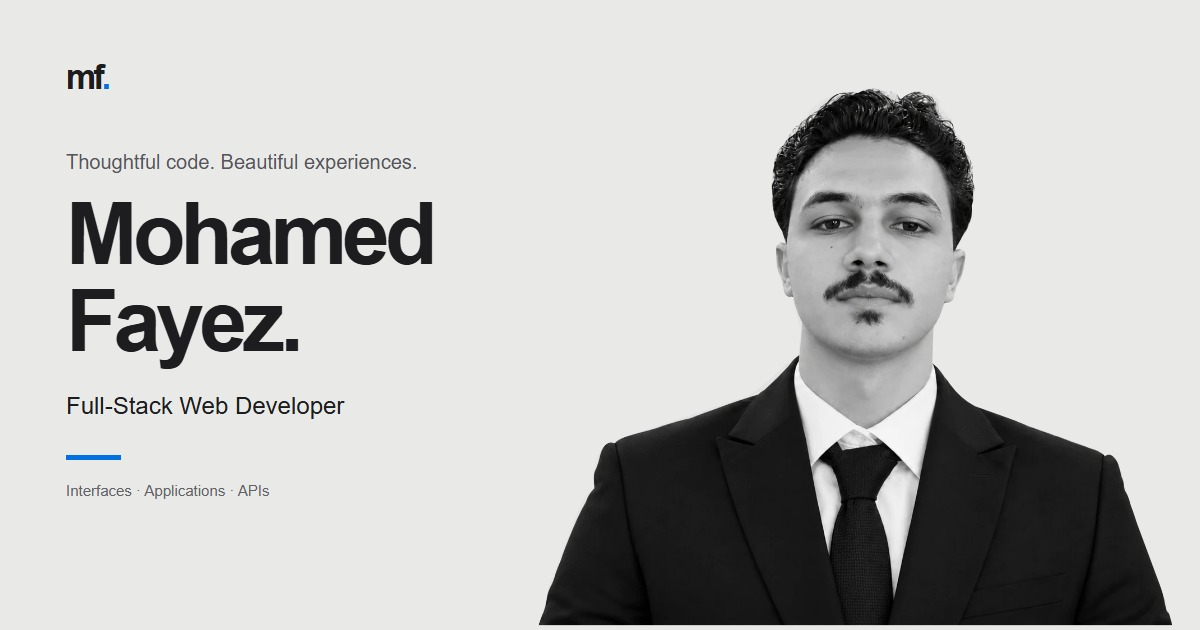
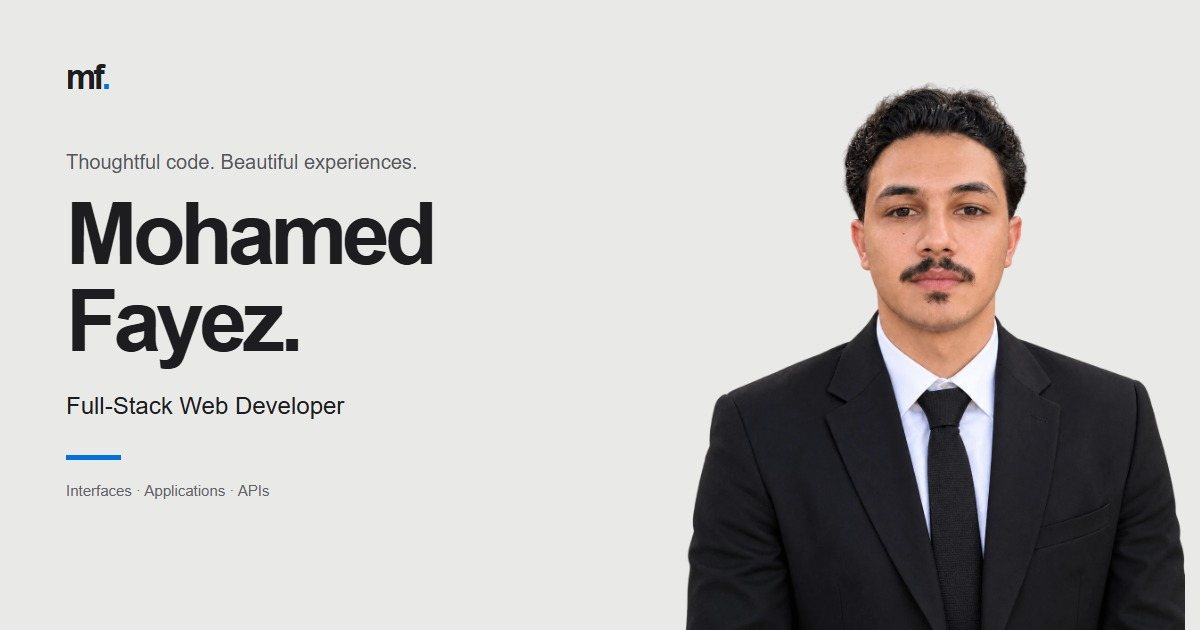
Replace hero portrait with transparent suit photo and update sharing preview

Changed region(s): [[0.4317, 0.1206, 0.9867, 1.0]]

diff --git a/index.html b/index.html
@@ -23,8 +23,8 @@
   <link rel="preconnect" href="https://fonts.googleapis.com">
   <link rel="preconnect" href="https://fonts.gstatic.com" crossorigin>
   <link href="https://fonts.googleapis.com/css2?family=Inter:wght@400;500;600;700&family=Noto+Sans+Arabic:wght@400;500;600;700&display=swap" rel="stylesheet">
-  <link rel="preload" as="image" href="assets/portrait.webp" fetchpriority="high">
-  <link rel="stylesheet" href="style.css?v=portfolio-ready-6">
+  <link rel="preload" as="image" href="assets/portrait.webp?v=suit-8" fetchpriority="high">
+  <link rel="stylesheet" href="style.css?v=portrait-suit-8">
   <script src="site-config.js?v=6" defer></script>
   <script src="analytics.js?v=6" defer></script>
   <script src="translations.js?v=portfolio-ready-6" defer></script>
@@ -52,10 +52,9 @@
       <div class="hero-top wrap"><p>Independent thinking. Full-stack building.</p><span>Design meets development.</span></div>
       <h1 id="hero-title"><span class="sr-only">Mohamed Fayez — Full-Stack Web Developer</span><span class="name-track" aria-hidden="true"><span>Mohamed Fayez&nbsp;·&nbsp;</span><span>Mohamed Fayez&nbsp;·&nbsp;</span></span></h1>
       <div class="hero-person">
-        <svg viewBox="0 0 1463 1075" role="img" aria-labelledby="portrait-title">
+        <svg viewBox="0 0 1122 1402" role="img" aria-labelledby="portrait-title">
           <title id="portrait-title">Portrait of Mohamed Fayez</title>
-          <defs><clipPath id="portrait-cutout"><path d="M140 1075 L154 1030 Q155 1010 168 982 L214 861 Q224 841 239 830 Q235 786 253 760 Q263 744 276 750 Q278 742 299 737 L515 665 Q550 640 580 610 L604 593 L608 546 Q599 520 592 488 Q578 493 575 464 Q562 443 564 400 Q568 387 581 394 L575 372 Q554 341 558 309 Q552 279 561 254 Q558 234 579 215 Q590 188 614 173 Q629 142 666 130 Q684 120 710 125 Q736 111 757 121 Q776 118 786 136 Q813 114 834 126 Q853 124 859 152 Q880 169 882 191 Q902 211 902 231 Q920 253 914 279 Q923 299 913 326 Q917 353 897 380 L884 404 Q900 399 902 413 Q900 450 885 472 Q885 500 866 499 Q856 531 845 545 L843 607 Q858 618 874 644 Q893 670 919 684 L1136 761 Q1149 766 1150 773 Q1164 763 1174 784 Q1183 802 1186 826 L1208 893 L1251 1009 Q1263 1040 1271 1075 Z"/></clipPath></defs>
-          <image href="assets/portrait.webp" width="1463" height="1075" clip-path="url(#portrait-cutout)"/>
+          <image href="assets/portrait.webp?v=suit-8" width="1122" height="1402"/>
         </svg>
       </div>
       <div class="hero-bottom wrap">

diff --git a/style.css b/style.css
@@ -49,6 +49,11 @@ h1,h2,h3,p{margin-top:0}h1,h2,h3{font-weight:600}p{font-size:17px;line-height:1.
 @media(max-width:760px){.scroll-motion-ready [data-scroll="heading"],.scroll-motion-ready [data-scroll="step"]{transform:translateY(calc((1 - var(--p)) * 22px));}.scroll-motion-ready.scroll-motion-reduced [data-scroll]{transform:none}}
 @media print{.reading-progress{display:none}.scroll-motion-ready [data-scroll],.scroll-motion-ready .about h2 .scroll-word{opacity:1;transform:none}.name-track{animation:none}}
 
+/* Transparent suit portrait stays in front of the rightward name loop. */
+.hero-person{height:calc(100% - 170px);width:auto;max-width:none;aspect-ratio:1122/1402;bottom:58px;left:50%}
+.hero-person svg{height:100%;width:100%;overflow:visible}
+@media(max-width:760px){.hero-person{height:calc(100% - 300px);bottom:170px;left:50%}}
+
 /* Questions and project brief: native controls remain keyboard and touch accessible. */
 .faq{border-top:1px solid #333336}
 .faq-list{max-width:880px;margin-inline-start:auto}
